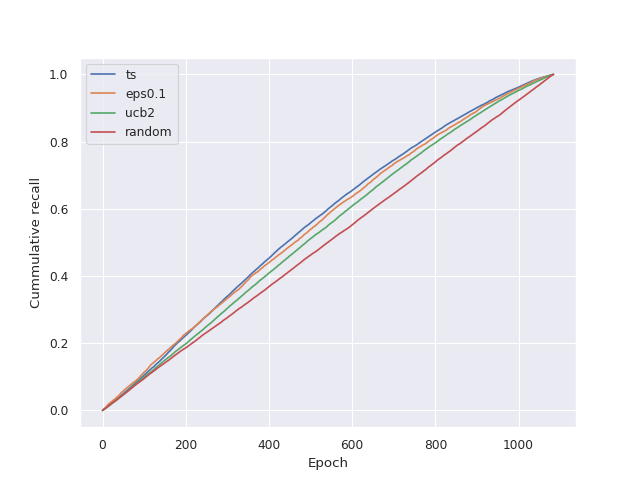
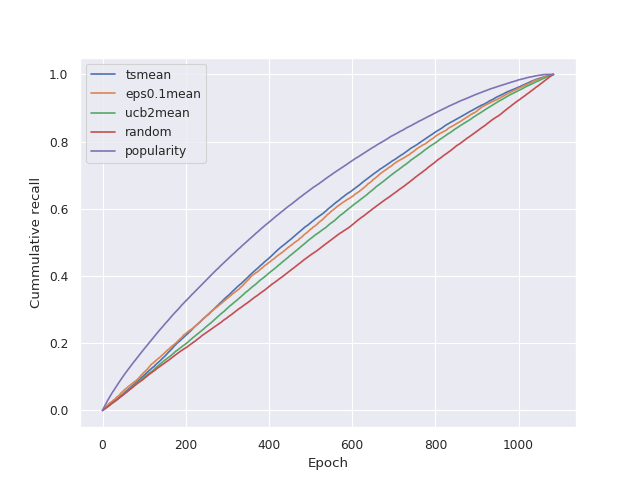
Done ThompsonSampling. TODO: delete popularity, gridSearch

diff --git a/src/bandits.py b/src/bandits.py
@@ -100,7 +100,7 @@ class Bandit():
                         self.update_item_info(item, n, reward, criteria)
                         # Remove the user from the item_user set
                         try:
-                            splitter.item_users[item.item].remove(user)
+                            splitter.item_users[item.item].pop(user)
                             if not splitter.item_users[item.item]:
                                 item.time = self.time
                         except KeyError:
@@ -309,23 +309,60 @@ class ThompsonSamplingBandit(Bandit):
         self.actions.remove(item)
         return item
 
-if __name__=="__main__":
-    from splitter import Splitter
+# DELETE
+class PopularityReccommender(Bandit):
+    """
+    """
+    def __init__(self, splitter, criteria="mean"):
+        """
+        """
+        super().__init__(splitter, criteria)
 
-    # for eps in [10, 2, 0]:
-    #     spl = Splitter("../data/ratings_binary.txt", " ")
-    #     bandit = UCBBandit(spl, param=eps)
-    #     bandit.output_to_file("../results/ucb{0}_epoch.txt".format(eps),
-    #                             "../results/ucb{0}_recall.txt".format(eps))
+    def init_items(self, splitter):
+        """
+        """
+        actions = []
+        # Order the items by their popularity
+        for item in splitter.item_set:
+            count = sum([splitter.item_users[item][user] > 0 for user in splitter.item_users[item]])
+            actions.append(ItemBandit(item, value = count))
+        return sorted(actions)
+
+    def select_item(self, splitter, user):
+        """
+        """
+        i = 0
+        item = self.actions[i]
+        while user in splitter.train_set.keys() and item.item in splitter.train_set[user]:
+            i+=1
+            item = self.actions[i]
+        self.actions.pop(i)
+        return item
+
+    def update_item_info(self, item, count, reward, criteria):
+        super().update_item_info(item, count, reward, criteria)
+        item.value += reward
+
+if __name__=="__main__":
+    from splitter import Splitter, PercentageSplitter
+
+    #spl = Splitter("../data/ratings_binary.txt", " ")
+    #bandit = UCBBandit(spl, criteria="cummulative_mean")
+    #bandit.output_to_file("../results/ucb2_epoch_cm100_wmean.txt",
+    #                      "../results/ucb2_recall_cm100_wmean.txt")
 
     #spl = Splitter("../data/ratings_binary.txt", " ")
     #eps = 0.1
-    #bandit = EpsilonGreedyBandit(spl)
-    #bandit.output_to_file("../results/eps{0}_epoch.txt".format(eps),
-    #                      "../results/eps{0}_recall.txt".format(eps))
+    #bandit = EpsilonGreedyBandit(spl, criteria="cummulative_mean")
+    #bandit.output_to_file("../results/eps{0}_epoch_cm100_wmean.txt".format(eps),
+    #                      "../results/eps{0}_recall_cm100_wmean.txt".format(eps))
 
-    spl = Splitter("../data/ratings_binary.txt", " ")
-    alpha = 2
-    bandit = ThompsonSamplingBandit(spl)
-    bandit.output_to_file("../results/ts_epoch.txt",
-                          "../results/ts_recall.txt")
+    #spl = Splitter("../data/ratings_binary.txt", " ")
+    #bandit = ThompsonSamplingBandit(spl, criteria="cummulative_mean")
+    #bandit.output_to_file("../results/ts_epoch_cm100_wmean.txt",
+    #                      "../results/ts_recall_cm100_wmean.txt")
+
+    spl = PercentageSplitter("../data/ratings_binary.txt", 0.2, separator = " ")
+    bandit = PopularityReccommender(spl)
+    bandit.output_to_file("../results/popularity_epoch_cm100.txt",
+                          "../results/popularity_recall_cm100.txt")

diff --git a/src/splitter.py b/src/splitter.py
@@ -22,9 +22,9 @@ class Splitter(object):
                 self.user_set.add(user)
                 self.item_set.add(item)
                 if item not in self.item_users:
-                    self.item_users[item] = set([user])
+                    self.item_users[item] = {user: value} #self.item_users[item] = set([user])
                 else:
-                    self.item_users[item].add(user)
+                    self.item_users[item][user] = value #self.item_users[item].add(user)
 
                 if self.condition():
                     try:
@@ -59,9 +59,9 @@ class RandomSplitter(Splitter):
     """
 
     """
-    def __init__(self, path, prob):
+    def __init__(self, path, prob, separator='\t'):
         self.prob = prob
-        super().__init__(path)
+        super().__init__(path, separator)
 
     def condition(self):
         return np.random.binomial(1, self.prob)
@@ -69,9 +69,9 @@ class RandomSplitter(Splitter):
 class PercentageSplitter(Splitter):
     """
     """
-    def __init__(self, path, percentage):
+    def __init__(self, path, percentage, separator='\t'):
         self.percentage = percentage
-        super().__init__(path)
+        super().__init__(path, separator)
 
     def condition(self):
         try:

diff --git a/src/plot.py b/src/plot.py
@@ -42,11 +42,14 @@ def plot_results_graph(results_file, eps):
 
 if __name__=="__main__":
     fig = plt.figure()
-    files = ["ts", "eps0.1", "ucb2", "random"]
-    for f in files:
-        res_file = "../results/" + f + "_recall.txt"
-        plot_results_graph(res_file, f)
+    files = ["ts", "eps0.1", "ucb2"]#, "random"]
+    for crit in ["mean"]: #, "wmean"]:
+        for f in files:
+            res_file = "../results/cm100/" + f + "_recall_cm100_"+ crit + ".txt"
+            plot_results_graph(res_file, f + crit)
 
+    plot_results_graph("../results/cm100/random_recall.txt", "random")
+    plot_results_graph("../results/popularity_recall_cm100.txt", "popularity")
     plt.legend()
     plt.savefig("../results/Recall.png")
     plt.show()
@@ -54,10 +57,11 @@ if __name__=="__main__":
 
     fig = plt.figure()
 
-    for f in files:
-        res_file = "../results/" + f + "_epoch.txt"
-        plot_results_scatter(res_file, f)
+    for crit in ["mean", "wmean"]:
+        for f in files:
+            res_file = "../results/cm100/" + f + "_epoch_cm100_" + crit + ".txt"
+            plot_results_scatter(res_file, f + crit)
 
     plt.legend()
     plt.savefig("../results/Epoch.png")
-    plt.show()
+    #plt.show()
